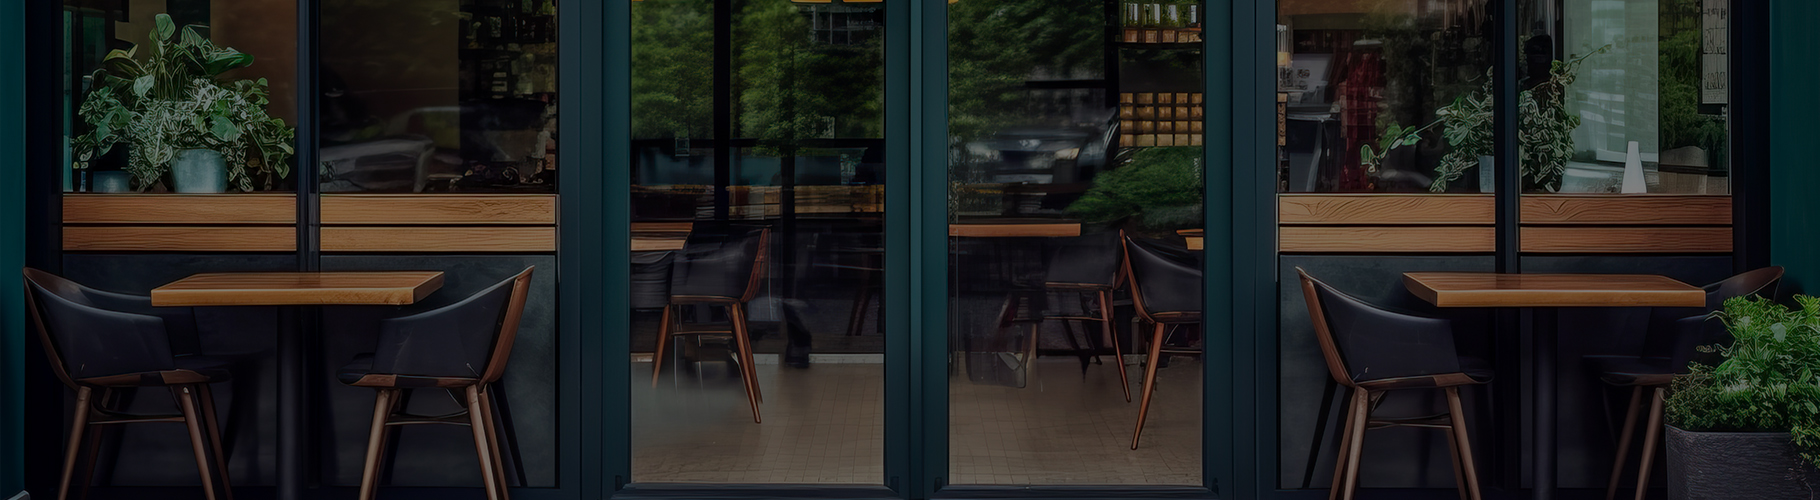
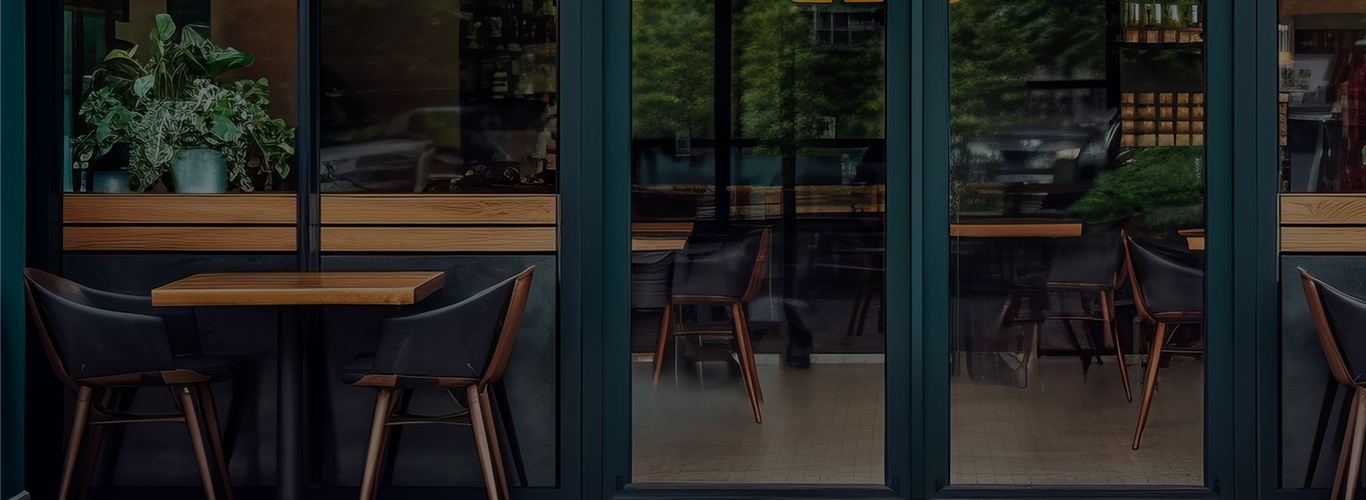
update

diff --git a/_css/styles.css b/_css/styles.css
@@ -85,9 +85,9 @@ button:hover {
 /*-----------INDEX PAGE CSS-----------*/
 #banner{
 	height: 500px;
-	background-image: url("../_images/MW-BannerImage.jpg");
-	background-size: cover;
-	background-position: center;
+	background:
+    url("../_images/MW-BannerImage.jpg") 
+    no-repeat fixed 0px 0px / 100%;
 	display: flex;
 	justify-content: center;
 	align-items: center;
